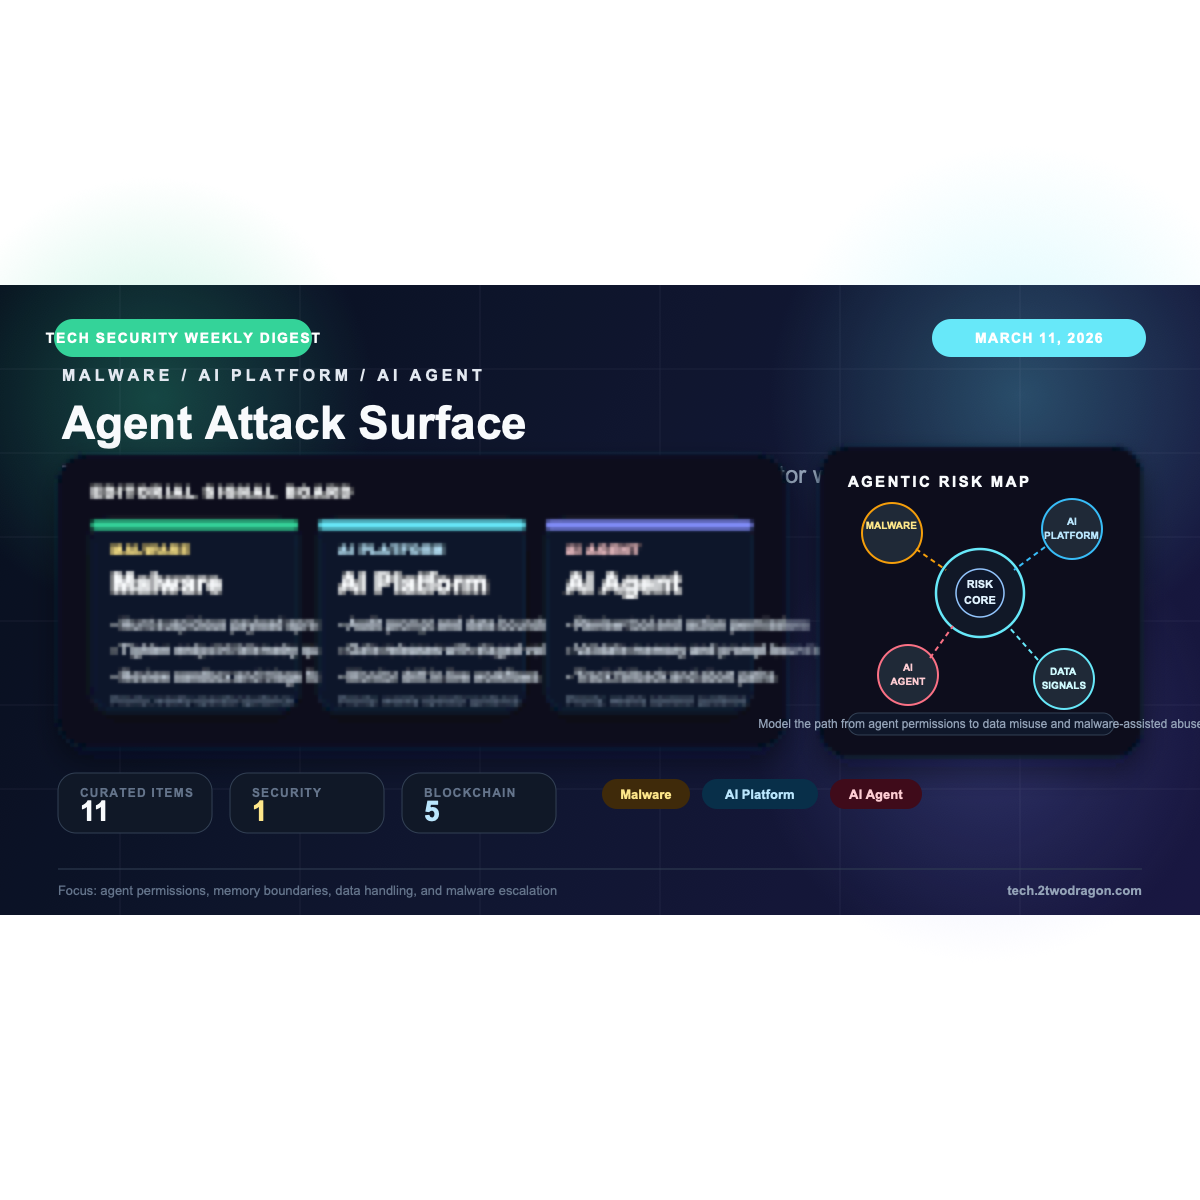
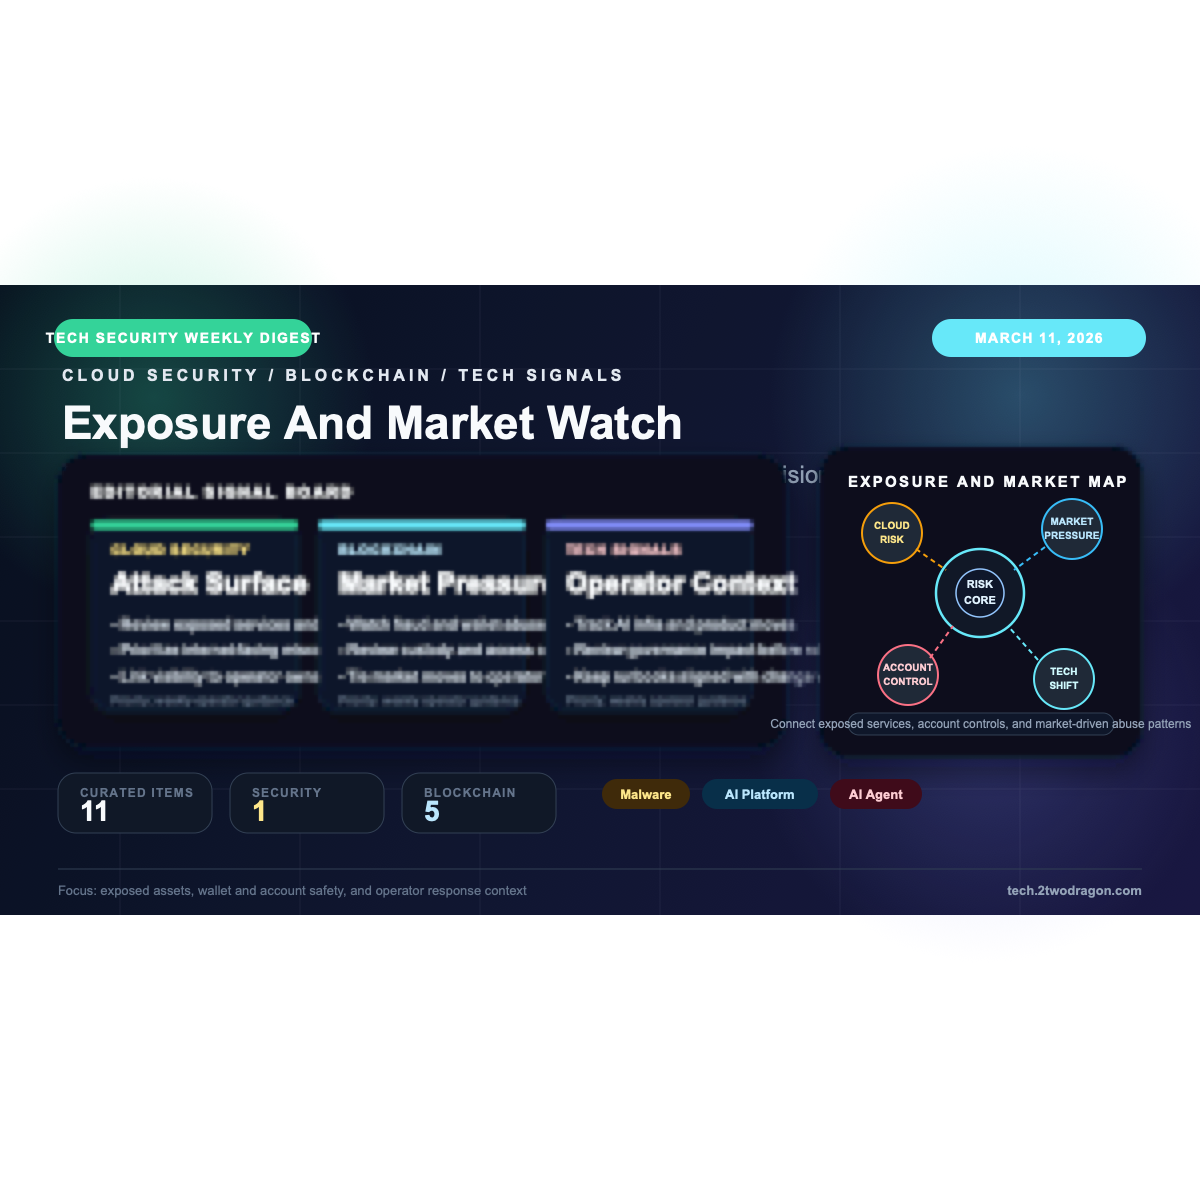
fix: align March 11 digest title and cover story

diff --git a/_posts/2026-03-11-Tech_Security_Weekly_Digest_AI_Agent_Data_Malware.md b/_posts/2026-03-11-Tech_Security_Weekly_Digest_AI_Agent_Data_Malware.md
@@ -1,31 +1,26 @@
 ---
 layout: post
-title: "기술·보안 주간 다이제스트: DevSecOps News"
+title: "기술·보안 주간 다이제스트: 공격 표면 인텔리전스, 블록체인 시장 리스크, 기술 동향"
 date: 2026-03-11 21:08:57 +0900
 categories: [security, devsecops]
-tags: [Security-Weekly, DevSecOps, Cloud-Security, Weekly-Digest, 2026, Cloud, Security, Bitcoin, Go]
-excerpt: "2026년 03월 11일 주요 보안/기술 뉴스 11건 - Cloud, Security, Bitcoin"
-description: "2026년 03월 11일 보안 뉴스: Cloudflare Blog, Cointelegraph 등 11건. Cloud, Security, Bitcoin, Go 관련 DevSecOps 실무 위협 분석 및 대응 가이드."
-keywords: [Security-Weekly, DevSecOps, Cloud-Security, Weekly-Digest, 2026, Cloud, Security, Bitcoin]
+tags: [Security-Weekly, DevSecOps, Cloud-Security, Weekly-Digest, 2026, Cloud, Security, Blockchain, Tech]
+excerpt: "2026년 03월 11일 주요 보안/기술 뉴스 11건 - Cloud, Security, Blockchain, Tech"
+description: "2026년 03월 11일 보안 뉴스: Cloudflare Blog, Cointelegraph, GeekNews 등 11건. 클라우드 보안, 블록체인, 기술 동향을 운영 리스크 기준으로 정리한 DevSecOps 실무 가이드."
+keywords: [Security-Weekly, DevSecOps, Cloud-Security, Weekly-Digest, 2026, Cloud, Security, Blockchain, Tech]
 author: Twodragon
 comments: true
 image: /assets/images/2026-03-11-Tech_Security_Weekly_Digest_AI_Agent_Data_Malware.svg
-image_alt: "Tech Security Weekly Digest March 11 2026 Cloud Security Bitcoin"
+image_alt: "Tech Security Weekly Digest March 11 2026 Cloud Security Blockchain Tech"
 toc: true
 ---
 
 {% include ai-summary-card.html
-  title='기술·보안 주간 다이제스트 (2026년 03월 11일)'
+  title='기술·보안 주간 다이제스트: 공격 표면 인텔리전스, 블록체인 시장 리스크, 기술 동향'
   categories_html='<span class="category-tag security">보안</span> <span class="category-tag devsecops">DevSecOps</span>'
-  tags_html='<span class="tag">Security-Weekly</span>
-      <span class="tag">Cloud</span>
-      <span class="tag">Security</span>
-      <span class="tag">Bitcoin</span>
-      <span class="tag">Go</span>
-      <span class="tag">2026</span>'
-  highlights_html='<li><strong>Cloudflare Blog</strong>: [보안] 클라우드 보안 동향 (Cloudflare Blog)</li>'
-  period='2026년 03월 11일 (24시간)'
-  audience='보안 담당자, DevSecOps 엔지니어, SRE, 클라우드 아키텍트'
+  tags_html='<span class="tag">Security-Weekly</span> <span class="tag">DevSecOps</span> <span class="tag">Cloud-Security</span> <span class="tag">Weekly-Digest</span> <span class="tag">2026</span> <span class="tag">Cloud</span> <span class="tag">Security</span> <span class="tag">Blockchain</span> <span class="tag">Tech</span>'
+  highlights_html='<li><strong>포인트 1</strong>: Cloudflare 공격 표면 인텔리전스와 블록체인 시장 뉴스가 함께 등장해 노출 자산 관리와 대외 리스크 감시를 동시에 요구합니다</li> <li><strong>포인트 2</strong>: 단기적으로는 인터넷 노출 서비스, 지갑/계정 접근통제, 탐지 룰 최신화가 가장 높은 효율을 냅니다</li> <li><strong>포인트 3</strong>: 기술 뉴스는 AI 인프라 투자와 로컬 퍼스트 생산성 도구의 변화가 운영 거버넌스에 미치는 영향을 보여줍니다</li>'
+  period='2026-03-11 (24시간)'
+  audience='보안/클라우드/플랫폼 엔지니어 및 기술 의사결정자'
 %}
 
 ---
@@ -64,16 +59,18 @@ toc: true
 
 ## 경영진 브리핑
 
-- 이번 주기는 취약점 대응과 탐지 체계 운영이 동시에 요구되며, 노출 자산 우선순위 기반의 실행이 필요합니다.
-- 단기적으로는 패치 SLA 준수, 고위험 자산 모니터링, 탐지 룰 최신화가 가장 높은 개선 효과를 제공합니다.
+- 이번 주기는 공격 표면 가시성 강화와 블록체인 서비스 운영 리스크 관리가 동시에 요구되며, 노출 자산 우선순위 기반의 실행이 필요합니다.
+- 단기적으로는 Cloudflare 기반 외부 노출 인사이트 확인, 관리자 계정 보호, 지갑/지갑 연결 서비스의 탐지 룰 최신화가 가장 높은 개선 효과를 제공합니다.
 
 ## 위험 스코어카드
 
 | 영역 | 현재 위험도 | 즉시 조치 |
 |------|-------------|-----------|
-| 위협 대응 | High | 인터넷 노출 자산 점검 및 고위험 항목 우선 패치 |
-| 탐지/모니터링 | High | SIEM/EDR 경보 우선순위 및 룰 업데이트 |
-| 운영 복원력 | Medium | 백업/복구 및 사고 대응 절차 리허설 |
+| 외부 노출 관리 | High | 공격 표면 인텔리전스 기반으로 인터넷 노출 서비스와 오래된 자산 식별 |
+| 지갑/계정 보호 | High | 관리자 계정 MFA 예외 제거 및 지갑 접근 정책 재검증 |
+| 운영 복원력 | Medium | 탐지 룰, 사고 대응 절차, 복구 리허설을 동일 기준으로 주간 점검 |
+
+![Security News Section Banner](/assets/images/section-security.svg)
 
 ## 1. 보안 뉴스
 
@@ -129,6 +126,8 @@ index=security sourcetype=syslog ("exploit" OR "remote code execution" OR "shell
 
 
 ---
+
+![Blockchain Web3 News Section Banner](/assets/images/section-blockchain.svg)
 
 ## 2. 블록체인 뉴스
 
@@ -195,13 +194,15 @@ index=security sourcetype=syslog ("exploit" OR "remote code execution" OR "shell
 
 ---
 
+![Technology Trends Section Banner](/assets/images/section-tech.svg)
+
 ## 3. 기타 주목할 뉴스
 
 | 제목 | 출처 | 핵심 내용 |
 |------|------|----------|
-| [OpenAI, Oracle과의 Stargate 데이터센터 확장 계획 철회](https://news.hada.io/topic?id=27376) | GeekNews (긱뉴스) | OpenAI 가 텍사스 애빌린의 Stargate 데이터센터 확장 계획을 중단 하고, 차세대 Nvidia 칩 을 사용하는 새로운 시설에 집중 Oracle 은 1,000억 달러 이상의 부채 기반 투자 로 AI 인프라 |
-| [Bluesky CEO 제이 그래버, CEO 자리에서 물러나 최고혁신책임자(CIO)로 전환](https://news.hada.io/topic?id=27373) | GeekNews (긱뉴스) | Bluesky 창립자 제이 그래버 가 수년간 회사를 이끌어온 뒤 CEO 자리에서 물러나 Chief Innovation Officer(최고혁신책임자) 로 역할을 전환함 2019년 오픈 소셜 프로토콜 구축 을 목표로 |
-| [Show GN: Obsidian을 쓰며 느낀 아쉬움 때문에, 로컬 퍼스트 노트 앱 Notaly를 만들고 있습니다](https://news.hada.io/topic?id=27370) | GeekNews (긱뉴스) | 안녕하세요. 요즘 Notaly라는 로컬 퍼스트 노트 앱을 만들고 있습니다 |
+| [OpenAI, Oracle과의 Stargate 데이터센터 확장 계획 철회](https://news.hada.io/topic?id=27376) | GeekNews (긱뉴스) | AI 기능 확대에 따른 운영 방식 변화와 거버넌스 점검 포인트를 함께 확인해야 하는 업데이트입니다. |
+| [Bluesky CEO 제이 그래버, CEO 자리에서 물러나 최고혁신책임자(CIO)로 전환](https://news.hada.io/topic?id=27373) | GeekNews (긱뉴스) | 적용 효과와 운영 리스크를 함께 비교해 도입 우선순위를 판단해야 하는 기술 동향입니다. |
+| [Show GN: Obsidian을 쓰며 느낀 아쉬움 때문에, 로컬 퍼스트 노트 앱 Notaly를 만들고 있습니다](https://news.hada.io/topic?id=27370) | GeekNews (긱뉴스) | 적용 효과와 운영 리스크를 함께 비교해 도입 우선순위를 판단해야 하는 기술 동향입니다. |
 
 
 ---
@@ -210,30 +211,45 @@ index=security sourcetype=syslog ("exploit" OR "remote code execution" OR "shell
 
 | 트렌드 | 관련 뉴스 수 | 주요 키워드 |
 |--------|-------------|------------|
-| **AI/ML** | 4건 | UK government‘s long-term fraud strategy, OpenAI, Show GN |
-| **Cloud Security** | 1건 | Translating risk insights into |
+| **Cloud Security** | 1건 | 공격 표면 인텔리전스, 노출 자산 우선순위화 |
+| **Blockchain / Market Risk** | 5건 | 사기 대응 전략, 예측시장, 토큰 가격 변동성 |
+| **Tech / AI Strategy** | 3건 | Stargate 투자 축소, 로컬 퍼스트 앱, 조직 운영 변화 |
 
-이번 주기의 핵심 트렌드는 **AI/ML**(4건)입니다. UK government‘s long-term fraud strategy, OpenAI 등이 주요 이슈입니다. **Cloud Security** 분야에서는 Translating risk insights into 관련 동향에 주목할 필요가 있습니다.
+이번 주기의 핵심은 **클라우드 보안의 공격 표면 가시성 확보**와 **블록체인 시장 이벤트가 유발하는 운영 리스크 관리**입니다. Cloudflare의 공격 표면 인텔리전스는 외부 노출 자산을 빠르게 식별해 우선순위를 정하는 흐름을 보여주고, Cointelegraph 기사들은 시장/정책 변화가 피싱, 스캠, 계정 탈취 시도 증가로 이어질 수 있음을 시사합니다. 기술 뉴스에서는 대규모 AI 투자 재조정과 로컬 퍼스트 도구 확산이 인프라 운영 모델과 거버넌스 검토를 요구하고 있습니다.
 
 ---
 
-## 실무 체크리스트
+## 5. 운영 우선순위 정리
+
+| 우선순위 | 핵심 과제 | 기대 효과 |
+|----------|-----------|-----------|
+| P0 | 외부 노출 자산과 관리자 계정의 고위험 조합 식별 | 침해 가능성이 높은 경로를 빠르게 축소 |
+| P1 | 블록체인/거래 서비스의 계정·지갑 접근 정책 재검증 | 사기·탈취 시나리오에 대한 방어력 향상 |
+| P2 | 기술 도입 변경사항을 운영 거버넌스 문서에 반영 | AI/플랫폼 변화에 따른 통제 공백 최소화 |
+
+이번 주기는 개별 뉴스 자체보다 **노출 자산 관리와 계정 보호를 얼마나 빠르게 연결하느냐**가 핵심입니다. 보안팀은 공격 표면 인텔리전스 결과를 인프라 우선순위와 바로 연결하고, 플랫폼팀은 블록체인/AI 연계 서비스에서 권한 스코프와 운영 기준이 이탈하지 않았는지 함께 검증해야 합니다. 기술 뉴스는 당장 취약점 경보는 아니더라도 아키텍처와 운영 모델 변화로 이어질 수 있으므로, 주간 보고에서 "기술 동향 → 통제 영향" 매핑을 유지하는 것이 좋습니다.
+
+---
+
+## 6. 실무 체크리스트
 
 ### P0 (즉시)
 
-- [ ] **[보안] 클라우드 보안 동향 (Cloudflare Blog)** 관련 긴급 패치 및 영향도 확인
+- [ ] **[보안] 클라우드 보안 동향 (Cloudflare Blog)** 기반 인터넷 노출 자산 목록과 조치 우선순위 확인
 
 ### P1 (7일 내)
 
-- [ ] 보안 뉴스 기반 SIEM/EDR 탐지 룰 업데이트
+- [ ] 보안 뉴스 기반 SIEM/EDR 탐지 룰과 지갑/계정 모니터링 규칙 업데이트
+- [ ] 블록체인/거래 서비스의 피싱·사기 경보 흐름 점검
 
 ### P2 (30일 내)
 
 - [ ] 암호화폐/블록체인 관련 컴플라이언스 점검
+- [ ] 기술 도입 변경사항을 운영 가이드와 보고 KPI에 반영
 
 ---
 
-## 참고 자료
+## 7. 참고 자료
 
 | 리소스 | 링크 |
 |--------|------|
